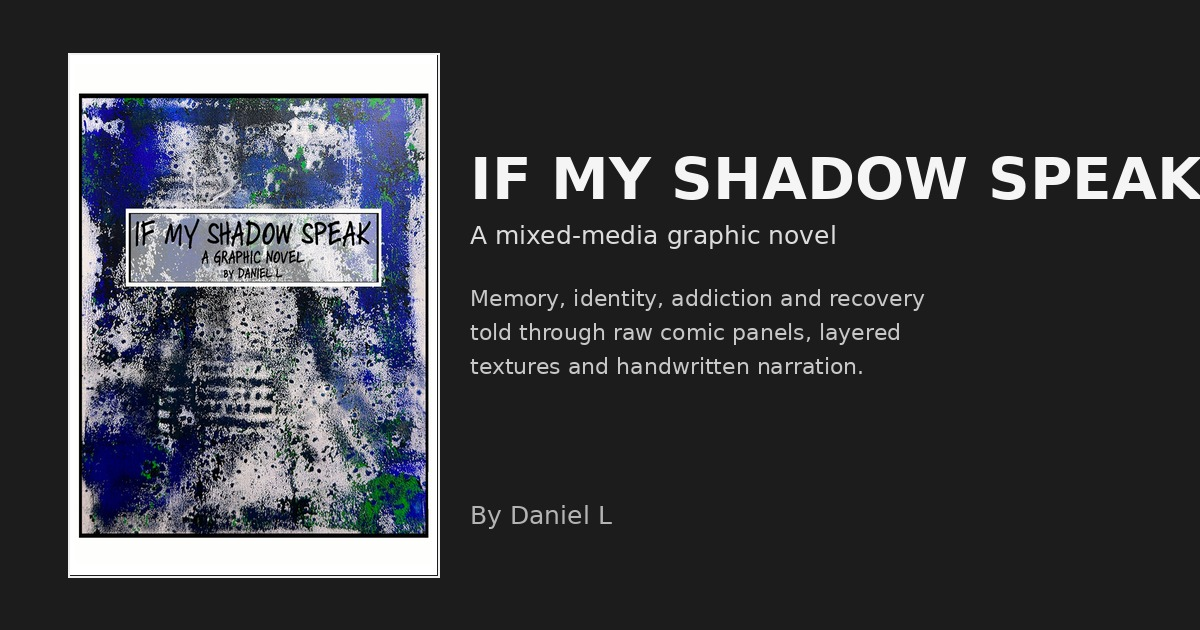
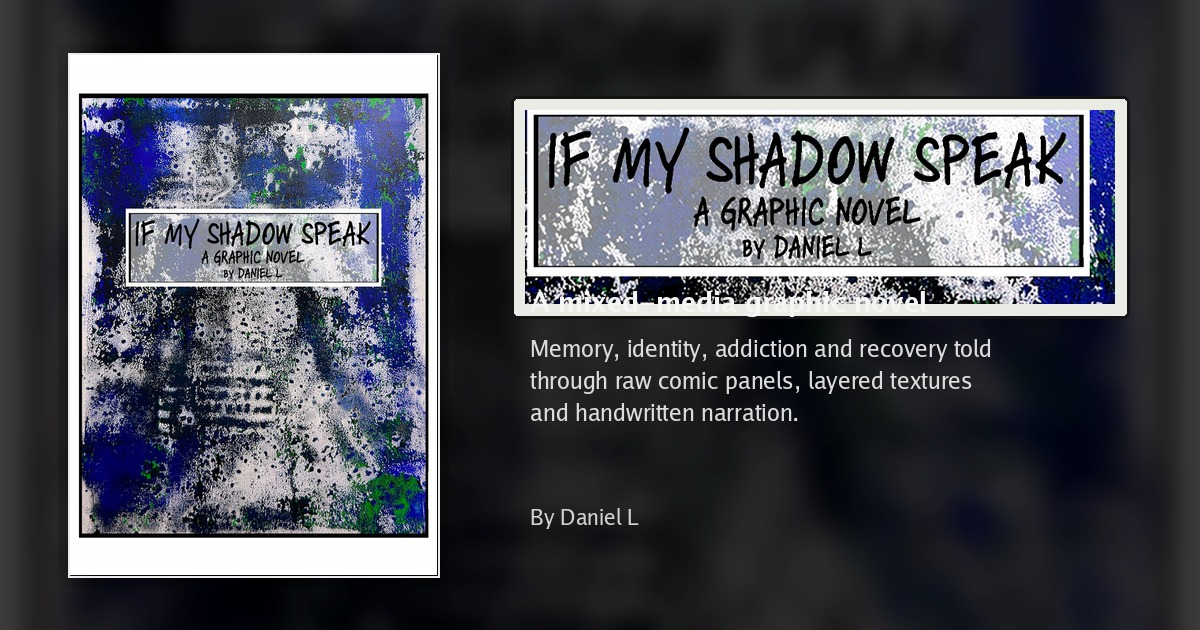
Add files via upload

diff --git a/index.html b/index.html
@@ -21,6 +21,7 @@
 <meta name="twitter:description" content="A mixed-media graphic novel about memory, identity, addiction and recovery, told through raw comic panels, layered textures and handwritten narration.">
 <meta name="twitter:image" content="https://casabarcpt-pixel.github.io/if-my-shadow-speak-Daniel-L/preview.jpg">
 
+
 <style>
   :root {
     --page-w: min(42vw, 520px);